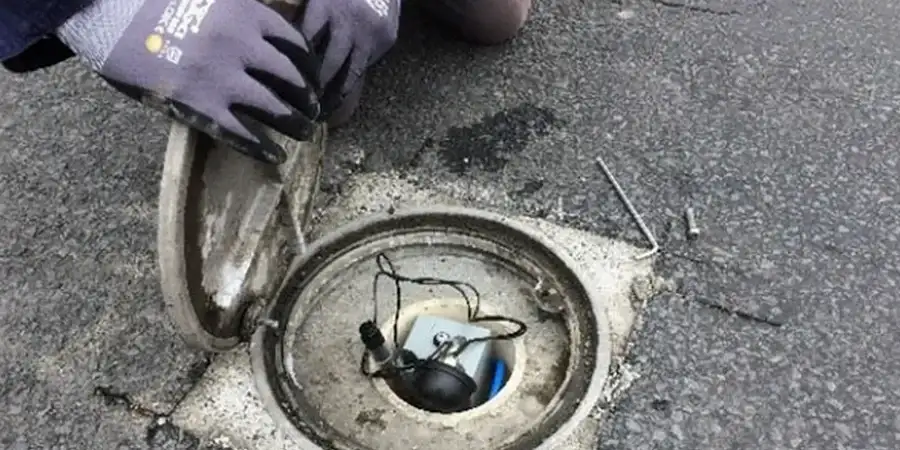
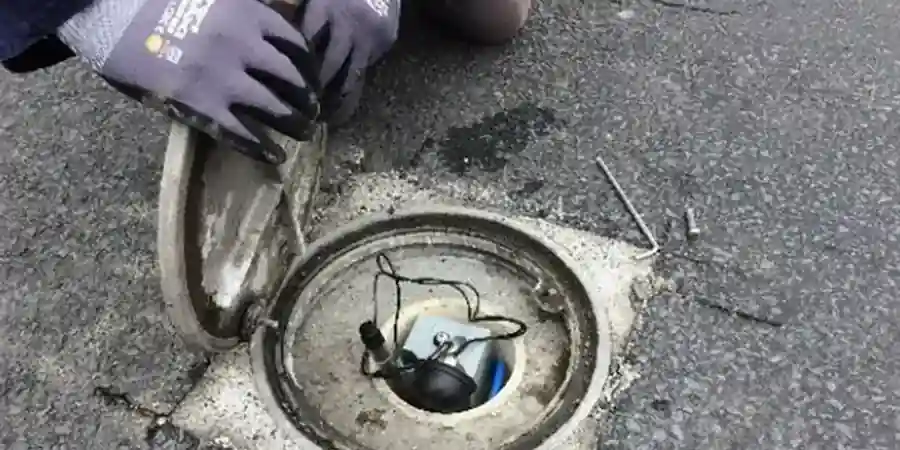
Deploy almeria.mecanicadesuelos.vip

diff --git a/index.html b/index.html
@@ -350,13 +350,12 @@ aside .cat-name,aside .sb-home,aside nav a{color:inherit}
 .logo-box,.brand-name,.brand{font-size:.82rem !important}
 /* Sidebar hover adaptive */
 aside .cat-name:hover,aside .sb-home:hover,aside .cat-sub-wrap a:hover,
-aside nav a:hover{color:inherit !important;text-decoration:underline !important;text-underline-offset:3px}/*sbhfix*/aside .sb-home{color:#FFF !important}</style><script>(function(){var L=0;function load(){if(L)return;L=1;!function(f,b,e,v,n,t,s){if(f.fbq)return;n=f.fbq=function(){n.callMethod?n.callMethod.apply(n,arguments):n.queue.push(arguments)};if(!f._fbq)f._fbq=n;n.push=n;n.loaded=!0;n.version='2.0';n.queue=[];t=b.createElement(e);t.async=!0;t.src=v;s=b.getElementsByTagName(e)[0];s.parentNode.insertBefore(t,s)}(window,document,'script','https://connect.facebook.net/en_US/fbevents.js');fbq("init","384176023222929");fbq("track","PageView");}["scroll","mousemove","touchstart","keydown","click"].forEach(function(e){window.addEventListener(e,load,{passive:!0,once:!0})});setTimeout(load,4000);})();</script><noscript><img height="1" width="1" style="display:none" src="https://www.facebook.com/tr?id=384176023222929&ev=PageView&noscript=1"/></noscript>  <link rel="preload" as="image" href="img/instrumentacion-geotecnica-3.webp" fetchpriority="high">
-  <link rel="preload" as="image" href="/img/calicatas-exploratorias-1.webp">
-  <link rel="preload" as="image" href="/img/densidad-cono-arena-1.webp">
+aside nav a:hover{color:inherit !important;text-decoration:underline !important;text-underline-offset:3px}/*sbhfix*/aside .sb-home{color:#FFF !important}</style><script>(function(){var L=0;function load(){if(L)return;L=1;!function(f,b,e,v,n,t,s){if(f.fbq)return;n=f.fbq=function(){n.callMethod?n.callMethod.apply(n,arguments):n.queue.push(arguments)};if(!f._fbq)f._fbq=n;n.push=n;n.loaded=!0;n.version='2.0';n.queue=[];t=b.createElement(e);t.async=!0;t.src=v;s=b.getElementsByTagName(e)[0];s.parentNode.insertBefore(t,s)}(window,document,'script','https://connect.facebook.net/en_US/fbevents.js');fbq("init","384176023222929");fbq("track","PageView");}["scroll","mousemove","touchstart","keydown","click"].forEach(function(e){window.addEventListener(e,load,{passive:!0,once:!0})});setTimeout(load,4000);})();</script><noscript><img height="1" width="1" style="display:none" src="https://www.facebook.com/tr?id=384176023222929&ev=PageView&noscript=1"/></noscript>
 <style id="a11y-fix">main a:not([class]),article a:not([class]),.content a:not([class]),p a:not([class]),li a:not([class]){text-decoration:underline}.leaflet-container a,nav a,.navbar a{text-decoration:none}</style>
 <link rel="alternate" hreflang="es-ES" href="https://almeria.mecanicadesuelos.vip/">
 <link rel="icon" type="image/png" href="/img/favicon.png" sizes="96x96">
-</head><body><div class="topbar"><div class="logo-area" data-logo-link="1" onclick="window.location.href=\'.\'" style="cursor:pointer;margin-right:2.5rem;flex-shrink:0"><div class="logo-text"><div class="main">ALMERIA ES</div><div class="sub">ALMERIA</div></a></div></div><div class="nav"><div class="nav-item has-dd"><a href="exploracion/" class="nav-cat-link">Exploración</a><button class="nav-arrow" type="button">▾</button><div class="dd"><a href="calicatas-exploratorias/">Calicata exploratoria</a><a href="sondaje-spt/">Sondaje SPT (Standard Penetration Test)</a></div></div><div class="nav-item has-dd"><a href="ensayos-in-situ/" class="nav-cat-link">Ensayos in situ</a><button class="nav-arrow" type="button">▾</button><div class="dd"><a href="densidad-cono-arena/">Densidad de campo (cono de arena)</a><a href="infiltracion/">Ensayo de infiltración (Porchet/Doble anillo)</a></div></div><div class="nav-item has-dd"><a href="laboratorio/" class="nav-cat-link">Laboratorio</a><button class="nav-arrow" type="button">▾</button><div class="dd"><a href="granulometria/">Análisis granulométrico (tamices + hidrómetro)</a><a href="clasificacion-suelos/">Clasificación de suelos USCS/AASHTO</a><a href="compresion-simple/">Compresión simple (UCS)</a><a href="estudio-mecanica-suelos/">Estudio de mecánica de suelos</a><a href="limites-atterberg/">Límites de Atterberg</a><a href="permeabilidad-laboratorio/">Permeabilidad en laboratorio (carga variable/constante)</a></div></div><div class="nav-item has-dd"><a href="cimentaciones/" class="nav-cat-link">Cimentaciones</a><button class="nav-arrow" type="button">▾</button><div class="dd"><a href="asentamiento-diferencial/">Análisis de asentamiento diferencial</a><a href="capacidad-de-carga/">Análisis de capacidad de carga</a><a href="cimentaciones-rellenos/">Cimentaciones en rellenos (análisis)</a><a href="cimentaciones-superficiales/">Diseño de cimentaciones superficiales</a><a href="pilotes/">Diseño de fundaciones en pilotes</a><a href="losa-de-cimentacion/">Diseño de losa de cimentación</a><a href="micropilotes/">Diseño de micropilotes</a></div></div><div class="nav-item has-dd"><a href="taludes-y-muros/" class="nav-cat-link">Taludes y muros</a><button class="nav-arrow" type="button">▾</button><div class="dd"><a href="erosion-suelos/">Análisis de erosión de suelos</a><a href="estabilidad-taludes/">Análisis de estabilidad de taludes</a><a href="anclajes/">Diseño de anclajes activos/pasivos</a><a href="muros-contencion/">Diseño de muros de contención</a></div></div><div class="nav-item has-dd"><a href="mejoramiento/" class="nav-cat-link">Mejoramiento</a><button class="nav-arrow" type="button">▾</button><div class="dd"><a href="suelos-no-saturados/">Análisis de suelos no saturados</a><a href="drenes-verticales/">Diseño de drenes verticales (prefabricados)</a><a href="vibrocompactacion/">Diseño de vibrocompactación</a><a href="geomembranas/">Especificación de geomembranas</a><a href="rellenos-sanitarios/">Geotecnia de rellenos sanitarios</a><a href="suelos-organicos/">Manejo de suelos orgánicos</a></div></div><div class="nav-item has-dd"><a href="excavaciones-subterraneas/" class="nav-cat-link">Excavaciones</a><button class="nav-arrow" type="button">▾</button><div class="dd"><a href="monitoreo-excavaciones/">Monitoreo geotécnico de excavaciones</a></div></div><div class="nav-item has-dd"><a href="geotecnia-vial/" class="nav-cat-link">Vial</a><button class="nav-arrow" type="button">▾</button><div class="dd"><a href="terraplenes-viales/">Diseño de terraplenes viales</a><a href="evaluacion-pavimentos/">Evaluación de pavimentos existentes</a></div></div><div class="nav-item has-dd"><a href="sismica/" class="nav-cat-link">Sísmica</a><button class="nav-arrow" type="button">▾</button><div class="dd"><a href="respuesta-sismica/">Análisis de respuesta sísmica del sitio</a><a href="aislacion-sismica/">Diseño de aislación sísmica de base</a></div></div></div></div><header class="hero"><div class="hero-inner"><div class="crumb-03dc-03dc"></div><h1>Servicios de geotecnia en Almeria</h1><p class="tagline">Geotecnia aplicada a resultados concretos.</p><a class="hero-cta" href="#main-content">CONOCER MÁS</a></div></header><section id="main-content" class="block"><div class="container"><p>En Almería, ofrecemos servicios integrales de ingeniería geotécnica que abarcan desde la caracterización del subsuelo hasta el diseño de cimentaciones, el control de excavaciones y la instrumentación de obras. Nuestro equipo combina métodos de campo y laboratorio para proporcionar informes detallados que cumplen con la normativa vigente. Ya sea para promociones residenciales, naves industriales o infraestructuras lineales, nuestra experiencia consolidada en la región garantiza soluciones adaptadas a las condiciones locales. Conozca más sobre nuestros <a data-interlink="1" href="granulometria/">estudios de granulometría</a> y <a data-interlink="1" href="clasificacion-suelos/">clasificación de suelos</a> para una caracterización precisa.</p><figure style="margin:1.5rem auto;max-width:720px;text-align:center"><img src="img/instrumentacion-geotecnica-3.webp" loading="eager" decoding="async" width="800" height="600" alt="Imagen ilustrativa de Instrumentacion geotecnica en Almeria" style="width:100%;height:auto;display:block;border-radius:8px;border:1px solid #E5E7EB" fetchpriority="high"></figure></div></section><section class="block" style="padding:1.5rem 2rem"><div class="container" style="max-width:60%;margin:0 auto"><figure style="margin:0;border-radius:10px;overflow:hidden;border:1px solid #E5E7EB"><figcaption style="padding:.5rem .8rem;font-size:.78rem;color:#64748B;background:#FAFAF7">Imagen técnica — Almeria</figcaption></figure></div></section><section class="block tint"><div class="container"><h2>Nuestras áreas de servicio</h2><div class="services-grid"><div class="svc-card"><div class="card-img"><img src="/img/calicatas-exploratorias-1.webp" alt="" loading="eager" fetchpriority="high" decoding="async"></div><div class="card-body"><h3>Exploración</h3><div class="card-links"><a href="calicatas-exploratorias/">Calicata exploratoria ›</a><a href="sondaje-spt/">Sondaje SPT (Standard Penetration Test) ›</a></div><a class="card-viewall" href="#exploracion">VER TODO EXPLORACIÓN ›</a></div></div><div class="svc-card"><div class="card-img"><img src="/img/densidad-cono-arena-1.webp" alt="" loading="lazy" decoding="async"></div><div class="card-body"><h3>Ensayos in situ</h3><div class="card-links"><a href="densidad-cono-arena/">Densidad de campo (cono de arena) ›</a><a href="infiltracion/">Ensayo de infiltración (Porchet/Doble anillo) ›</a></div><a class="card-viewall" href="#laboratorio-in-situ">VER TODO ENSAYOS IN SITU ›</a></div></div><div class="svc-card"><div class="card-img"><img src="/img/granulometria-1.webp" alt="" loading="lazy" decoding="async"></div><div class="card-body"><h3>Laboratorio</h3><div class="card-links"><a href="granulometria/">Análisis granulométrico (tamices + hidrómetro) ›</a><a href="clasificacion-suelos/">Clasificación de suelos USCS/AASHTO ›</a><a href="compresion-simple/">Compresión simple (UCS) ›</a><a href="estudio-mecanica-suelos/">Estudio de mecánica de suelos ›</a><a href="limites-atterberg/">Límites de Atterberg ›</a></div><a class="card-viewall" href="#laboratorio-lab">VER TODO LABORATORIO ›</a></div></div><div class="svc-card"><div class="card-img"><img src="/img/asentamiento-diferencial-1.webp" alt="" loading="lazy" decoding="async"></div><div class="card-body"><h3>Cimentaciones</h3><div class="card-links"><a href="asentamiento-diferencial/">Análisis de asentamiento diferencial ›</a><a href="capacidad-de-carga/">Análisis de capacidad de carga ›</a><a href="cimentaciones-rellenos/">Cimentaciones en rellenos (análisis) ›</a><a href="cimentaciones-superficiales/">Diseño de cimentaciones superficiales ›</a><a href="pilotes/">Diseño de fundaciones en pilotes ›</a></div><a class="card-viewall" href="#cimentaciones">VER TODO CIMENTACIONES ›</a></div></div><div class="svc-card"><div class="card-img"><img src="/img/erosion-suelos-1.webp" alt="" loading="lazy" decoding="async"></div><div class="card-body"><h3>Taludes y muros</h3><div class="card-links"><a href="erosion-suelos/">Análisis de erosión de suelos ›</a><a href="estabilidad-taludes/">Análisis de estabilidad de taludes ›</a><a href="anclajes/">Diseño de anclajes activos/pasivos ›</a><a href="muros-contencion/">Diseño de muros de contención ›</a></div><a class="card-viewall" href="#taludes">VER TODO TALUDES Y MUROS ›</a></div></div><div class="svc-card"><div class="card-img"><img src="/img/suelos-no-saturados-1.webp" alt="" loading="lazy" decoding="async"></div><div class="card-body"><h3>Mejoramiento</h3><div class="card-links"><a href="suelos-no-saturados/">Análisis de suelos no saturados ›</a><a href="drenes-verticales/">Diseño de drenes verticales (prefabricados) ›</a><a href="vibrocompactacion/">Diseño de vibrocompactación ›</a><a href="geomembranas/">Especificación de geomembranas ›</a><a href="rellenos-sanitarios/">Geotecnia de rellenos sanitarios ›</a></div><a class="card-viewall" href="#mejoramiento">VER TODO MEJORAMIENTO ›</a></div></div><div class="svc-card"><div class="card-img"><img src="/img/monitoreo-excavaciones-1.webp" alt="" loading="lazy" decoding="async"></div><div class="card-body"><h3>Excavaciones</h3><div class="card-links"><a href="monitoreo-excavaciones/">Monitoreo geotécnico de excavaciones ›</a></div><a class="card-viewall" href="#excavaciones-subterraneo">VER TODO EXCAVACIONES ›</a></div></div><div class="svc-card"><div class="card-img"><img src="/img/terraplenes-viales-1.webp" alt="" loading="lazy" decoding="async"></div><div class="card-body"><h3>Vial</h3><div class="card-links"><a href="terraplenes-viales/">Diseño de terraplenes viales ›</a><a href="evaluacion-pavimentos/">Evaluación de pavimentos existentes ›</a></div><a class="card-viewall" href="#geotecnia-vial">VER TODO VIAL ›</a></div></div><div class="svc-card"><div class="card-img"><img src="/img/respuesta-sismica-1.webp" alt="" loading="lazy" decoding="async"></div><div class="card-body"><h3>Sísmica</h3><div class="card-links"><a href="respuesta-sismica/">Análisis de respuesta sísmica del sitio ›</a><a href="aislacion-sismica/">Diseño de aislación sísmica de base ›</a></div><a class="card-viewall" href="#sismica">VER TODO SÍSMICA ›</a></div></div></div></div></section><section class="block"><div class="container"><h2>Geología local</h2><hr style="border:none;height:2px;background:linear-gradient(90deg,transparent,#A16207,transparent);margin:2rem 0;width:60%;margin-left:auto;margin-right:auto"><div>El subsuelo de Almería está dominado por depósitos cuaternarios de origen aluvial y marino, con frecuentes formaciones de calizas, margas y yesos del Mioceno. En la franja costera, los suelos son predominantemente arenosos, con niveles freáticos someros que oscilan entre 1 y 4 metros de profundidad, lo que exige un manejo cuidadoso del agua durante las excavaciones. En las zonas interiores y pedemontes, aparecen arcillas expansivas y limos arcillosos con potencial de colapso, así como depósitos de glacis y derrubios de ladera. La actividad sísmica es moderada, con aceleraciones básicas de 0.12g a 0.16g según la NCSE-02, lo que condiciona el diseño de cimentaciones y estructuras de contención. Además, la presencia de yesos disueltos puede generar cavidades kársticas que requieren prospecciones detalladas para evitar asientos diferenciales.</div></div></section><section class="block tint"><div class="container"><h2>Normas aplicables</h2><p>En España, la normativa geotécnica se rige principalmente por el Código Técnico de la Edificación (CTE), en particular el Documento Básico SE-C (Cimientos), y la NCSE-02 para acciones sísmicas. Para el reconocimiento del terreno, se aplican los procedimientos de las normas UNE (por ejemplo, UNE 103-800 para SPT, UNE 103-804 para ensayos de penetración dinámica) y las recomendaciones del Ministerio de Fomento. En el ámbito de los ensayos de laboratorio, seguimos las la normativa técnica aplicable (D2487 para clasificación, D4318 para <a href="limites-atterberg/" data-interlink="1">límites de Atterberg</a>) y las especificaciones europeas EN 1997-2. La coordinación con los ayuntamientos y la Demarcación de Carreteras asegura el cumplimiento de las ordenanzas locales.</p></div></section><section class="block mid-cta-03dc-03dc" style="padding:2rem 0"><div style="max-width:720px;margin:0 auto;background:linear-gradient(135deg,#A78BFA15,#A78BFA08);border-left:4px solid #A78BFA;padding:1.5rem 1.8rem;border-radius:6px;text-align:center"><h3 style="margin:0 0 .4rem;font-size:1.15rem;color:#1E293B;text-align:center">¿Necesita una evaluación geotécnica?</h3><p style="margin:0 0 1rem;color:#64748B;font-size:.92rem;text-align:center">Respuesta en menos de 24h.</p><a href="mailto:[email redacted]" style="display:inline-block;background:#A78BFA;color:#FFF !important;padding:1rem 2rem;border-radius:8px;text-decoration:none;font-weight:800;font-size:1.05rem;box-shadow:0 4px 12px rgba(0,0,0,.15)">Email: [email redacted]</a></div></section><section class="block video-block" style="padding:3rem 1.5rem"><div style="max-width:1200px;margin:0 auto"><h2 style="margin-bottom:1rem;font-weight:700">Video del servicio</h2><div class="video-wrap" style="position:relative;max-width:600px;margin:1rem auto 0;aspect-ratio:16/9;border-radius:8px;overflow:hidden"><iframe src="https://www.youtube-nocookie.com/embed/joC_ur3g_M4" title="Video explicativo" style="position:absolute;top:0;left:0;width:100%;height:100%;border:0" loading="lazy" allowfullscreen allow="accelerometer;encrypted-media;gyroscope;picture-in-picture"></iframe></div></div></section><section class="block"><div class="container"><h2>Por qué elegirnos</h2><p>Nuestra firma ha desarrollado una experiencia regional consolidada en el Levante español, ejecutando campañas de campo con equipos calibrados y personal cualificado. En Almería, trabajamos en estrecha colaboración con contratistas locales y técnicos municipales, conociendo de primera mano los desafíos geotécnicos de la zona (arcillas expansivas, niveles freáticos, karst). Nuestros informes son claros, cumplen con el CTE y la normativa sísmica, y se entregan en los plazos acordados. Además, contamos con un laboratorio interno para <a data-interlink="1" href="permeabilidad-laboratorio/">ensayos de permeabilidad</a> y control de compactación, lo que garantiza la trazabilidad y calidad de los resultados.</p></div></section><section class="block"><div class="container"><h2>Dudas habituales</h2><details><summary>¿Qué tipo de estudios geotécnicos son más comunes en Almería?</summary><p>En Almería, los estudios más frecuentes incluyen campañas de penetración dinámica (DPSH), sondeos a rotación con extracción de testigos y calicatas para viviendas unifamiliares y naves agrícolas. También son habituales los ensayos de carga sobre <a href="/pilotes/">pilotes</a> y las pruebas de permeabilidad en terrenos con nivel freático alto, especialmente en la zona costera.</p></details><details><summary>¿Cómo afecta el nivel freático alto a las cimentaciones en la costa almeriense?</summary><p>El nivel freático somero (1-3 m) en zonas como El Ejido o Roquetas de Mar obliga a diseñar cimentaciones superficiales con losas de cimentación o zapatas corridas con drenes perimetrales, o bien a emplear pilotes si la carga es elevada. Además, se deben prever sistemas de impermeabilización y control de subpresiones durante la excavación.</p></details><details><summary>¿Qué normativa sismorresistente se aplica en Almería?</summary><p>En Almería se aplica la NCSE-02 (Norma de Construcción Sismorresistente Española), con aceleraciones básicas de 0.12g a 0.16g según la ubicación. Para edificios de importancia especial, se requiere un estudio de respuesta sísmica específica. También se consideran los coeficientes de amplificación del terreno definidos en el CTE DB SE-C.</p></details><details><summary>¿Es necesario un estudio geotécnico para una reforma o ampliación de vivienda en Almería?</summary><p>Sí, el CTE exige un estudio geotécnico siempre que se modifique la estructura portante o se incremente la carga sobre el terreno. En Almería, muchas viviendas antiguas se construyeron sin cimentación adecuada, por lo que es fundamental conocer la capacidad portante del suelo y el nivel freático para garantizar la seguridad de la ampliación.</p></details></div></section><script>
+
+  <link rel="preload" as="image" href="img/instrumentacion-geotecnica-3.webp" fetchpriority="high"></head><body><div class="topbar"><div class="logo-area" data-logo-link="1" onclick="window.location.href=\'.\'" style="cursor:pointer;margin-right:2.5rem;flex-shrink:0"><div class="logo-text"><div class="main">ALMERIA ES</div><div class="sub">ALMERIA</div></a></div></div><div class="nav"><div class="nav-item has-dd"><a href="exploracion/" class="nav-cat-link">Exploración</a><button class="nav-arrow" type="button">▾</button><div class="dd"><a href="calicatas-exploratorias/">Calicata exploratoria</a><a href="sondaje-spt/">Sondaje SPT (Standard Penetration Test)</a></div></div><div class="nav-item has-dd"><a href="ensayos-in-situ/" class="nav-cat-link">Ensayos in situ</a><button class="nav-arrow" type="button">▾</button><div class="dd"><a href="densidad-cono-arena/">Densidad de campo (cono de arena)</a><a href="infiltracion/">Ensayo de infiltración (Porchet/Doble anillo)</a></div></div><div class="nav-item has-dd"><a href="laboratorio/" class="nav-cat-link">Laboratorio</a><button class="nav-arrow" type="button">▾</button><div class="dd"><a href="granulometria/">Análisis granulométrico (tamices + hidrómetro)</a><a href="clasificacion-suelos/">Clasificación de suelos USCS/AASHTO</a><a href="compresion-simple/">Compresión simple (UCS)</a><a href="estudio-mecanica-suelos/">Estudio de mecánica de suelos</a><a href="limites-atterberg/">Límites de Atterberg</a><a href="permeabilidad-laboratorio/">Permeabilidad en laboratorio (carga variable/constante)</a></div></div><div class="nav-item has-dd"><a href="cimentaciones/" class="nav-cat-link">Cimentaciones</a><button class="nav-arrow" type="button">▾</button><div class="dd"><a href="asentamiento-diferencial/">Análisis de asentamiento diferencial</a><a href="capacidad-de-carga/">Análisis de capacidad de carga</a><a href="cimentaciones-rellenos/">Cimentaciones en rellenos (análisis)</a><a href="cimentaciones-superficiales/">Diseño de cimentaciones superficiales</a><a href="pilotes/">Diseño de fundaciones en pilotes</a><a href="losa-de-cimentacion/">Diseño de losa de cimentación</a><a href="micropilotes/">Diseño de micropilotes</a></div></div><div class="nav-item has-dd"><a href="taludes-y-muros/" class="nav-cat-link">Taludes y muros</a><button class="nav-arrow" type="button">▾</button><div class="dd"><a href="erosion-suelos/">Análisis de erosión de suelos</a><a href="estabilidad-taludes/">Análisis de estabilidad de taludes</a><a href="anclajes/">Diseño de anclajes activos/pasivos</a><a href="muros-contencion/">Diseño de muros de contención</a></div></div><div class="nav-item has-dd"><a href="mejoramiento/" class="nav-cat-link">Mejoramiento</a><button class="nav-arrow" type="button">▾</button><div class="dd"><a href="suelos-no-saturados/">Análisis de suelos no saturados</a><a href="drenes-verticales/">Diseño de drenes verticales (prefabricados)</a><a href="vibrocompactacion/">Diseño de vibrocompactación</a><a href="geomembranas/">Especificación de geomembranas</a><a href="rellenos-sanitarios/">Geotecnia de rellenos sanitarios</a><a href="suelos-organicos/">Manejo de suelos orgánicos</a></div></div><div class="nav-item has-dd"><a href="excavaciones-subterraneas/" class="nav-cat-link">Excavaciones</a><button class="nav-arrow" type="button">▾</button><div class="dd"><a href="monitoreo-excavaciones/">Monitoreo geotécnico de excavaciones</a></div></div><div class="nav-item has-dd"><a href="geotecnia-vial/" class="nav-cat-link">Vial</a><button class="nav-arrow" type="button">▾</button><div class="dd"><a href="terraplenes-viales/">Diseño de terraplenes viales</a><a href="evaluacion-pavimentos/">Evaluación de pavimentos existentes</a></div></div><div class="nav-item has-dd"><a href="sismica/" class="nav-cat-link">Sísmica</a><button class="nav-arrow" type="button">▾</button><div class="dd"><a href="respuesta-sismica/">Análisis de respuesta sísmica del sitio</a><a href="aislacion-sismica/">Diseño de aislación sísmica de base</a></div></div></div></div><header class="hero"><div class="hero-inner"><div class="crumb-03dc-03dc"></div><h1>Servicios de geotecnia en Almeria</h1><p class="tagline">Geotecnia aplicada a resultados concretos.</p><a class="hero-cta" href="#main-content">CONOCER MÁS</a></div></header><section id="main-content" class="block"><div class="container"><p>En Almería, ofrecemos servicios integrales de ingeniería geotécnica que abarcan desde la caracterización del subsuelo hasta el diseño de cimentaciones, el control de excavaciones y la instrumentación de obras. Nuestro equipo combina métodos de campo y laboratorio para proporcionar informes detallados que cumplen con la normativa vigente. Ya sea para promociones residenciales, naves industriales o infraestructuras lineales, nuestra experiencia consolidada en la región garantiza soluciones adaptadas a las condiciones locales. Conozca más sobre nuestros <a data-interlink="1" href="granulometria/">estudios de granulometría</a> y <a data-interlink="1" href="clasificacion-suelos/">clasificación de suelos</a> para una caracterización precisa.</p><figure style="margin:1.5rem auto;max-width:720px;text-align:center"><img fetchpriority="high" src="img/instrumentacion-geotecnica-3.webp" decoding="async" width="800" height="600" alt="Imagen ilustrativa de Instrumentacion geotecnica en Almeria" style="width:100%;height:auto;display:block;border-radius:8px;border:1px solid #E5E7EB"></figure></div></section><section class="block" style="padding:1.5rem 2rem"><div class="container" style="max-width:60%;margin:0 auto"><figure style="margin:0;border-radius:10px;overflow:hidden;border:1px solid #E5E7EB"><figcaption style="padding:.5rem .8rem;font-size:.78rem;color:#64748B;background:#FAFAF7">Imagen técnica — Almeria</figcaption></figure></div></section><section class="block tint"><div class="container"><h2>Nuestras áreas de servicio</h2><div class="services-grid"><div class="svc-card"><div class="card-img"><img loading="lazy" src="/img/calicatas-exploratorias-1.webp" alt="" decoding="async"></div><div class="card-body"><h3>Exploración</h3><div class="card-links"><a href="calicatas-exploratorias/">Calicata exploratoria ›</a><a href="sondaje-spt/">Sondaje SPT (Standard Penetration Test) ›</a></div><a class="card-viewall" href="#exploracion">VER TODO EXPLORACIÓN ›</a></div></div><div class="svc-card"><div class="card-img"><img src="/img/densidad-cono-arena-1.webp" alt="" loading="lazy" decoding="async"></div><div class="card-body"><h3>Ensayos in situ</h3><div class="card-links"><a href="densidad-cono-arena/">Densidad de campo (cono de arena) ›</a><a href="infiltracion/">Ensayo de infiltración (Porchet/Doble anillo) ›</a></div><a class="card-viewall" href="#laboratorio-in-situ">VER TODO ENSAYOS IN SITU ›</a></div></div><div class="svc-card"><div class="card-img"><img src="/img/granulometria-1.webp" alt="" loading="lazy" decoding="async"></div><div class="card-body"><h3>Laboratorio</h3><div class="card-links"><a href="granulometria/">Análisis granulométrico (tamices + hidrómetro) ›</a><a href="clasificacion-suelos/">Clasificación de suelos USCS/AASHTO ›</a><a href="compresion-simple/">Compresión simple (UCS) ›</a><a href="estudio-mecanica-suelos/">Estudio de mecánica de suelos ›</a><a href="limites-atterberg/">Límites de Atterberg ›</a></div><a class="card-viewall" href="#laboratorio-lab">VER TODO LABORATORIO ›</a></div></div><div class="svc-card"><div class="card-img"><img src="/img/asentamiento-diferencial-1.webp" alt="" loading="lazy" decoding="async"></div><div class="card-body"><h3>Cimentaciones</h3><div class="card-links"><a href="asentamiento-diferencial/">Análisis de asentamiento diferencial ›</a><a href="capacidad-de-carga/">Análisis de capacidad de carga ›</a><a href="cimentaciones-rellenos/">Cimentaciones en rellenos (análisis) ›</a><a href="cimentaciones-superficiales/">Diseño de cimentaciones superficiales ›</a><a href="pilotes/">Diseño de fundaciones en pilotes ›</a></div><a class="card-viewall" href="#cimentaciones">VER TODO CIMENTACIONES ›</a></div></div><div class="svc-card"><div class="card-img"><img src="/img/erosion-suelos-1.webp" alt="" loading="lazy" decoding="async"></div><div class="card-body"><h3>Taludes y muros</h3><div class="card-links"><a href="erosion-suelos/">Análisis de erosión de suelos ›</a><a href="estabilidad-taludes/">Análisis de estabilidad de taludes ›</a><a href="anclajes/">Diseño de anclajes activos/pasivos ›</a><a href="muros-contencion/">Diseño de muros de contención ›</a></div><a class="card-viewall" href="#taludes">VER TODO TALUDES Y MUROS ›</a></div></div><div class="svc-card"><div class="card-img"><img src="/img/suelos-no-saturados-1.webp" alt="" loading="lazy" decoding="async"></div><div class="card-body"><h3>Mejoramiento</h3><div class="card-links"><a href="suelos-no-saturados/">Análisis de suelos no saturados ›</a><a href="drenes-verticales/">Diseño de drenes verticales (prefabricados) ›</a><a href="vibrocompactacion/">Diseño de vibrocompactación ›</a><a href="geomembranas/">Especificación de geomembranas ›</a><a href="rellenos-sanitarios/">Geotecnia de rellenos sanitarios ›</a></div><a class="card-viewall" href="#mejoramiento">VER TODO MEJORAMIENTO ›</a></div></div><div class="svc-card"><div class="card-img"><img src="/img/monitoreo-excavaciones-1.webp" alt="" loading="lazy" decoding="async"></div><div class="card-body"><h3>Excavaciones</h3><div class="card-links"><a href="monitoreo-excavaciones/">Monitoreo geotécnico de excavaciones ›</a></div><a class="card-viewall" href="#excavaciones-subterraneo">VER TODO EXCAVACIONES ›</a></div></div><div class="svc-card"><div class="card-img"><img src="/img/terraplenes-viales-1.webp" alt="" loading="lazy" decoding="async"></div><div class="card-body"><h3>Vial</h3><div class="card-links"><a href="terraplenes-viales/">Diseño de terraplenes viales ›</a><a href="evaluacion-pavimentos/">Evaluación de pavimentos existentes ›</a></div><a class="card-viewall" href="#geotecnia-vial">VER TODO VIAL ›</a></div></div><div class="svc-card"><div class="card-img"><img src="/img/respuesta-sismica-1.webp" alt="" loading="lazy" decoding="async"></div><div class="card-body"><h3>Sísmica</h3><div class="card-links"><a href="respuesta-sismica/">Análisis de respuesta sísmica del sitio ›</a><a href="aislacion-sismica/">Diseño de aislación sísmica de base ›</a></div><a class="card-viewall" href="#sismica">VER TODO SÍSMICA ›</a></div></div></div></div></section><section class="block"><div class="container"><h2>Geología local</h2><hr style="border:none;height:2px;background:linear-gradient(90deg,transparent,#A16207,transparent);margin:2rem 0;width:60%;margin-left:auto;margin-right:auto"><div>El subsuelo de Almería está dominado por depósitos cuaternarios de origen aluvial y marino, con frecuentes formaciones de calizas, margas y yesos del Mioceno. En la franja costera, los suelos son predominantemente arenosos, con niveles freáticos someros que oscilan entre 1 y 4 metros de profundidad, lo que exige un manejo cuidadoso del agua durante las excavaciones. En las zonas interiores y pedemontes, aparecen arcillas expansivas y limos arcillosos con potencial de colapso, así como depósitos de glacis y derrubios de ladera. La actividad sísmica es moderada, con aceleraciones básicas de 0.12g a 0.16g según la NCSE-02, lo que condiciona el diseño de cimentaciones y estructuras de contención. Además, la presencia de yesos disueltos puede generar cavidades kársticas que requieren prospecciones detalladas para evitar asientos diferenciales.</div></div></section><section class="block tint"><div class="container"><h2>Normas aplicables</h2><p>En España, la normativa geotécnica se rige principalmente por el Código Técnico de la Edificación (CTE), en particular el Documento Básico SE-C (Cimientos), y la NCSE-02 para acciones sísmicas. Para el reconocimiento del terreno, se aplican los procedimientos de las normas UNE (por ejemplo, UNE 103-800 para SPT, UNE 103-804 para ensayos de penetración dinámica) y las recomendaciones del Ministerio de Fomento. En el ámbito de los ensayos de laboratorio, seguimos las la normativa técnica aplicable (D2487 para clasificación, D4318 para <a href="limites-atterberg/" data-interlink="1">límites de Atterberg</a>) y las especificaciones europeas EN 1997-2. La coordinación con los ayuntamientos y la Demarcación de Carreteras asegura el cumplimiento de las ordenanzas locales.</p></div></section><section class="block mid-cta-03dc-03dc" style="padding:2rem 0"><div style="max-width:720px;margin:0 auto;background:linear-gradient(135deg,#A78BFA15,#A78BFA08);border-left:4px solid #A78BFA;padding:1.5rem 1.8rem;border-radius:6px;text-align:center"><h3 style="margin:0 0 .4rem;font-size:1.15rem;color:#1E293B;text-align:center">¿Necesita una evaluación geotécnica?</h3><p style="margin:0 0 1rem;color:#64748B;font-size:.92rem;text-align:center">Respuesta en menos de 24h.</p><a href="mailto:[email redacted]" style="display:inline-block;background:#A78BFA;color:#FFF !important;padding:1rem 2rem;border-radius:8px;text-decoration:none;font-weight:800;font-size:1.05rem;box-shadow:0 4px 12px rgba(0,0,0,.15)">Email: [email redacted]</a></div></section><section class="block video-block" style="padding:3rem 1.5rem"><div style="max-width:1200px;margin:0 auto"><h2 style="margin-bottom:1rem;font-weight:700">Video del servicio</h2><div class="video-wrap" style="position:relative;max-width:600px;margin:1rem auto 0;aspect-ratio:16/9;border-radius:8px;overflow:hidden"><iframe src="https://www.youtube-nocookie.com/embed/joC_ur3g_M4" title="Video explicativo" style="position:absolute;top:0;left:0;width:100%;height:100%;border:0" loading="lazy" allowfullscreen allow="accelerometer;encrypted-media;gyroscope;picture-in-picture"></iframe></div></div></section><section class="block"><div class="container"><h2>Por qué elegirnos</h2><p>Nuestra firma ha desarrollado una experiencia regional consolidada en el Levante español, ejecutando campañas de campo con equipos calibrados y personal cualificado. En Almería, trabajamos en estrecha colaboración con contratistas locales y técnicos municipales, conociendo de primera mano los desafíos geotécnicos de la zona (arcillas expansivas, niveles freáticos, karst). Nuestros informes son claros, cumplen con el CTE y la normativa sísmica, y se entregan en los plazos acordados. Además, contamos con un laboratorio interno para <a data-interlink="1" href="permeabilidad-laboratorio/">ensayos de permeabilidad</a> y control de compactación, lo que garantiza la trazabilidad y calidad de los resultados.</p></div></section><section class="block"><div class="container"><h2>Dudas habituales</h2><details><summary>¿Qué tipo de estudios geotécnicos son más comunes en Almería?</summary><p>En Almería, los estudios más frecuentes incluyen campañas de penetración dinámica (DPSH), sondeos a rotación con extracción de testigos y calicatas para viviendas unifamiliares y naves agrícolas. También son habituales los ensayos de carga sobre <a href="/pilotes/">pilotes</a> y las pruebas de permeabilidad en terrenos con nivel freático alto, especialmente en la zona costera.</p></details><details><summary>¿Cómo afecta el nivel freático alto a las cimentaciones en la costa almeriense?</summary><p>El nivel freático somero (1-3 m) en zonas como El Ejido o Roquetas de Mar obliga a diseñar cimentaciones superficiales con losas de cimentación o zapatas corridas con drenes perimetrales, o bien a emplear pilotes si la carga es elevada. Además, se deben prever sistemas de impermeabilización y control de subpresiones durante la excavación.</p></details><details><summary>¿Qué normativa sismorresistente se aplica en Almería?</summary><p>En Almería se aplica la NCSE-02 (Norma de Construcción Sismorresistente Española), con aceleraciones básicas de 0.12g a 0.16g según la ubicación. Para edificios de importancia especial, se requiere un estudio de respuesta sísmica específica. También se consideran los coeficientes de amplificación del terreno definidos en el CTE DB SE-C.</p></details><details><summary>¿Es necesario un estudio geotécnico para una reforma o ampliación de vivienda en Almería?</summary><p>Sí, el CTE exige un estudio geotécnico siempre que se modifique la estructura portante o se incremente la carga sobre el terreno. En Almería, muchas viviendas antiguas se construyeron sin cimentación adecuada, por lo que es fundamental conocer la capacidad portante del suelo y el nivel freático para garantizar la seguridad de la ampliación.</p></details></div></section><script>
 (function(){
 function init(){
 if(typeof L==='undefined'){setTimeout(init,200);return;}